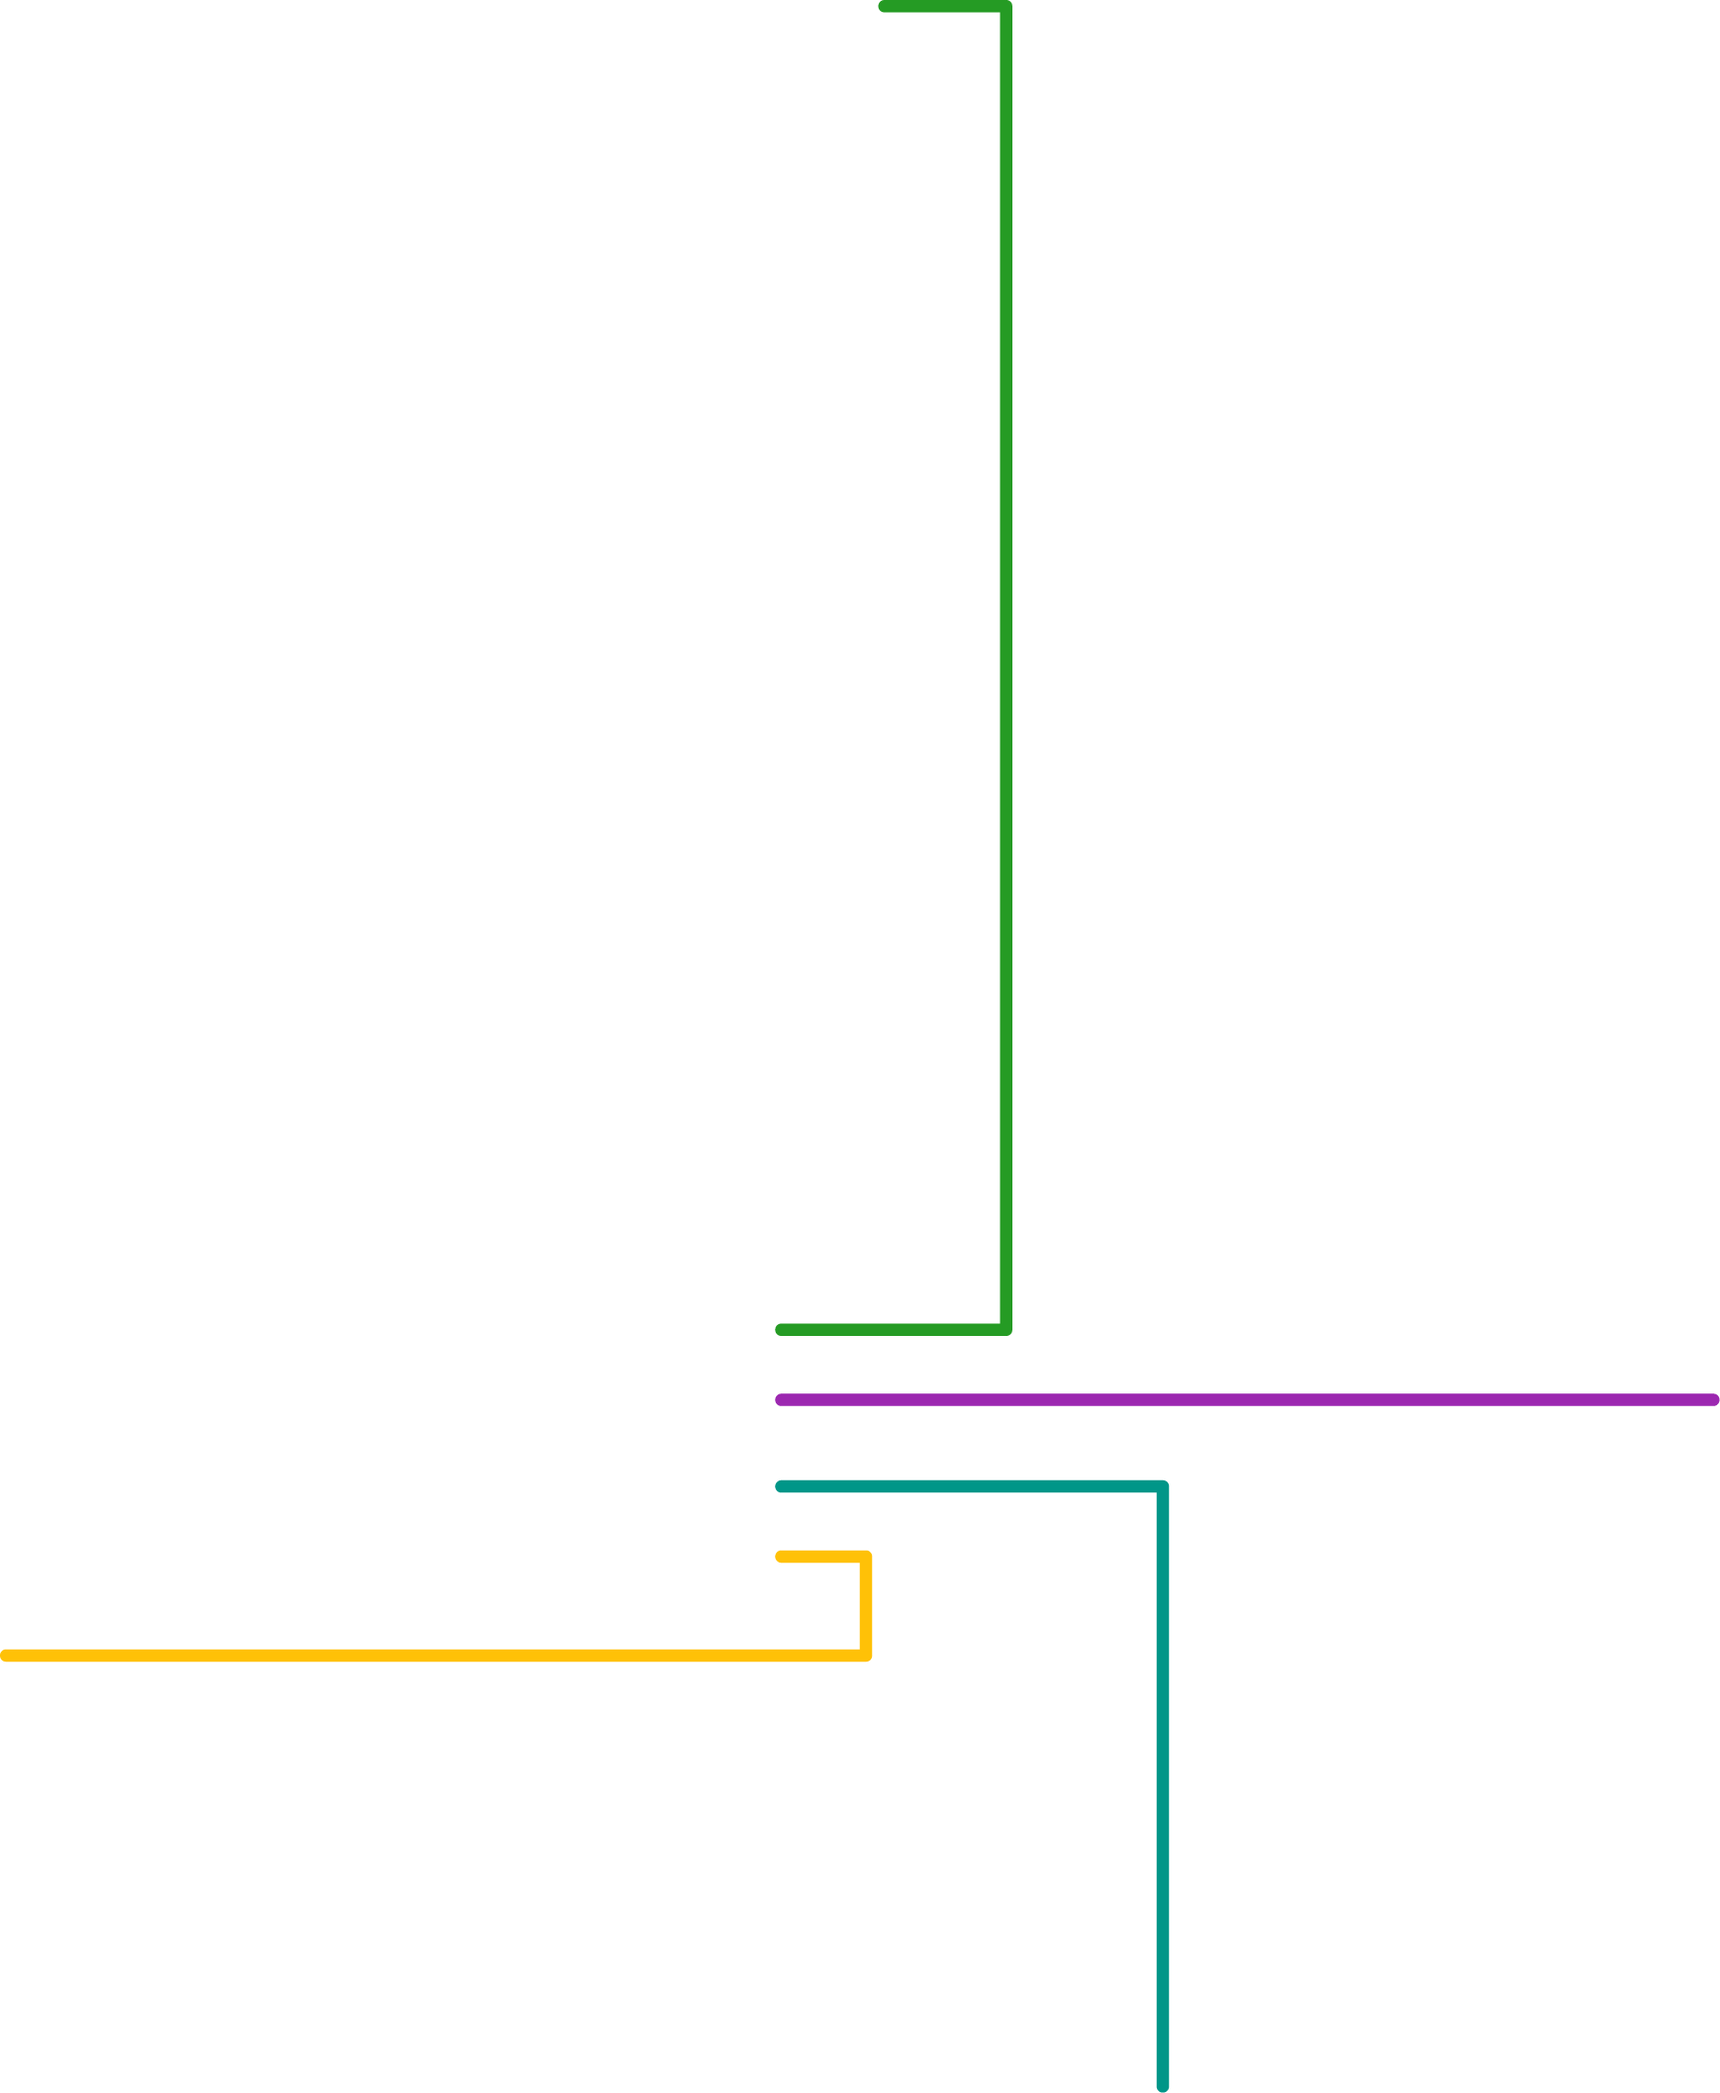
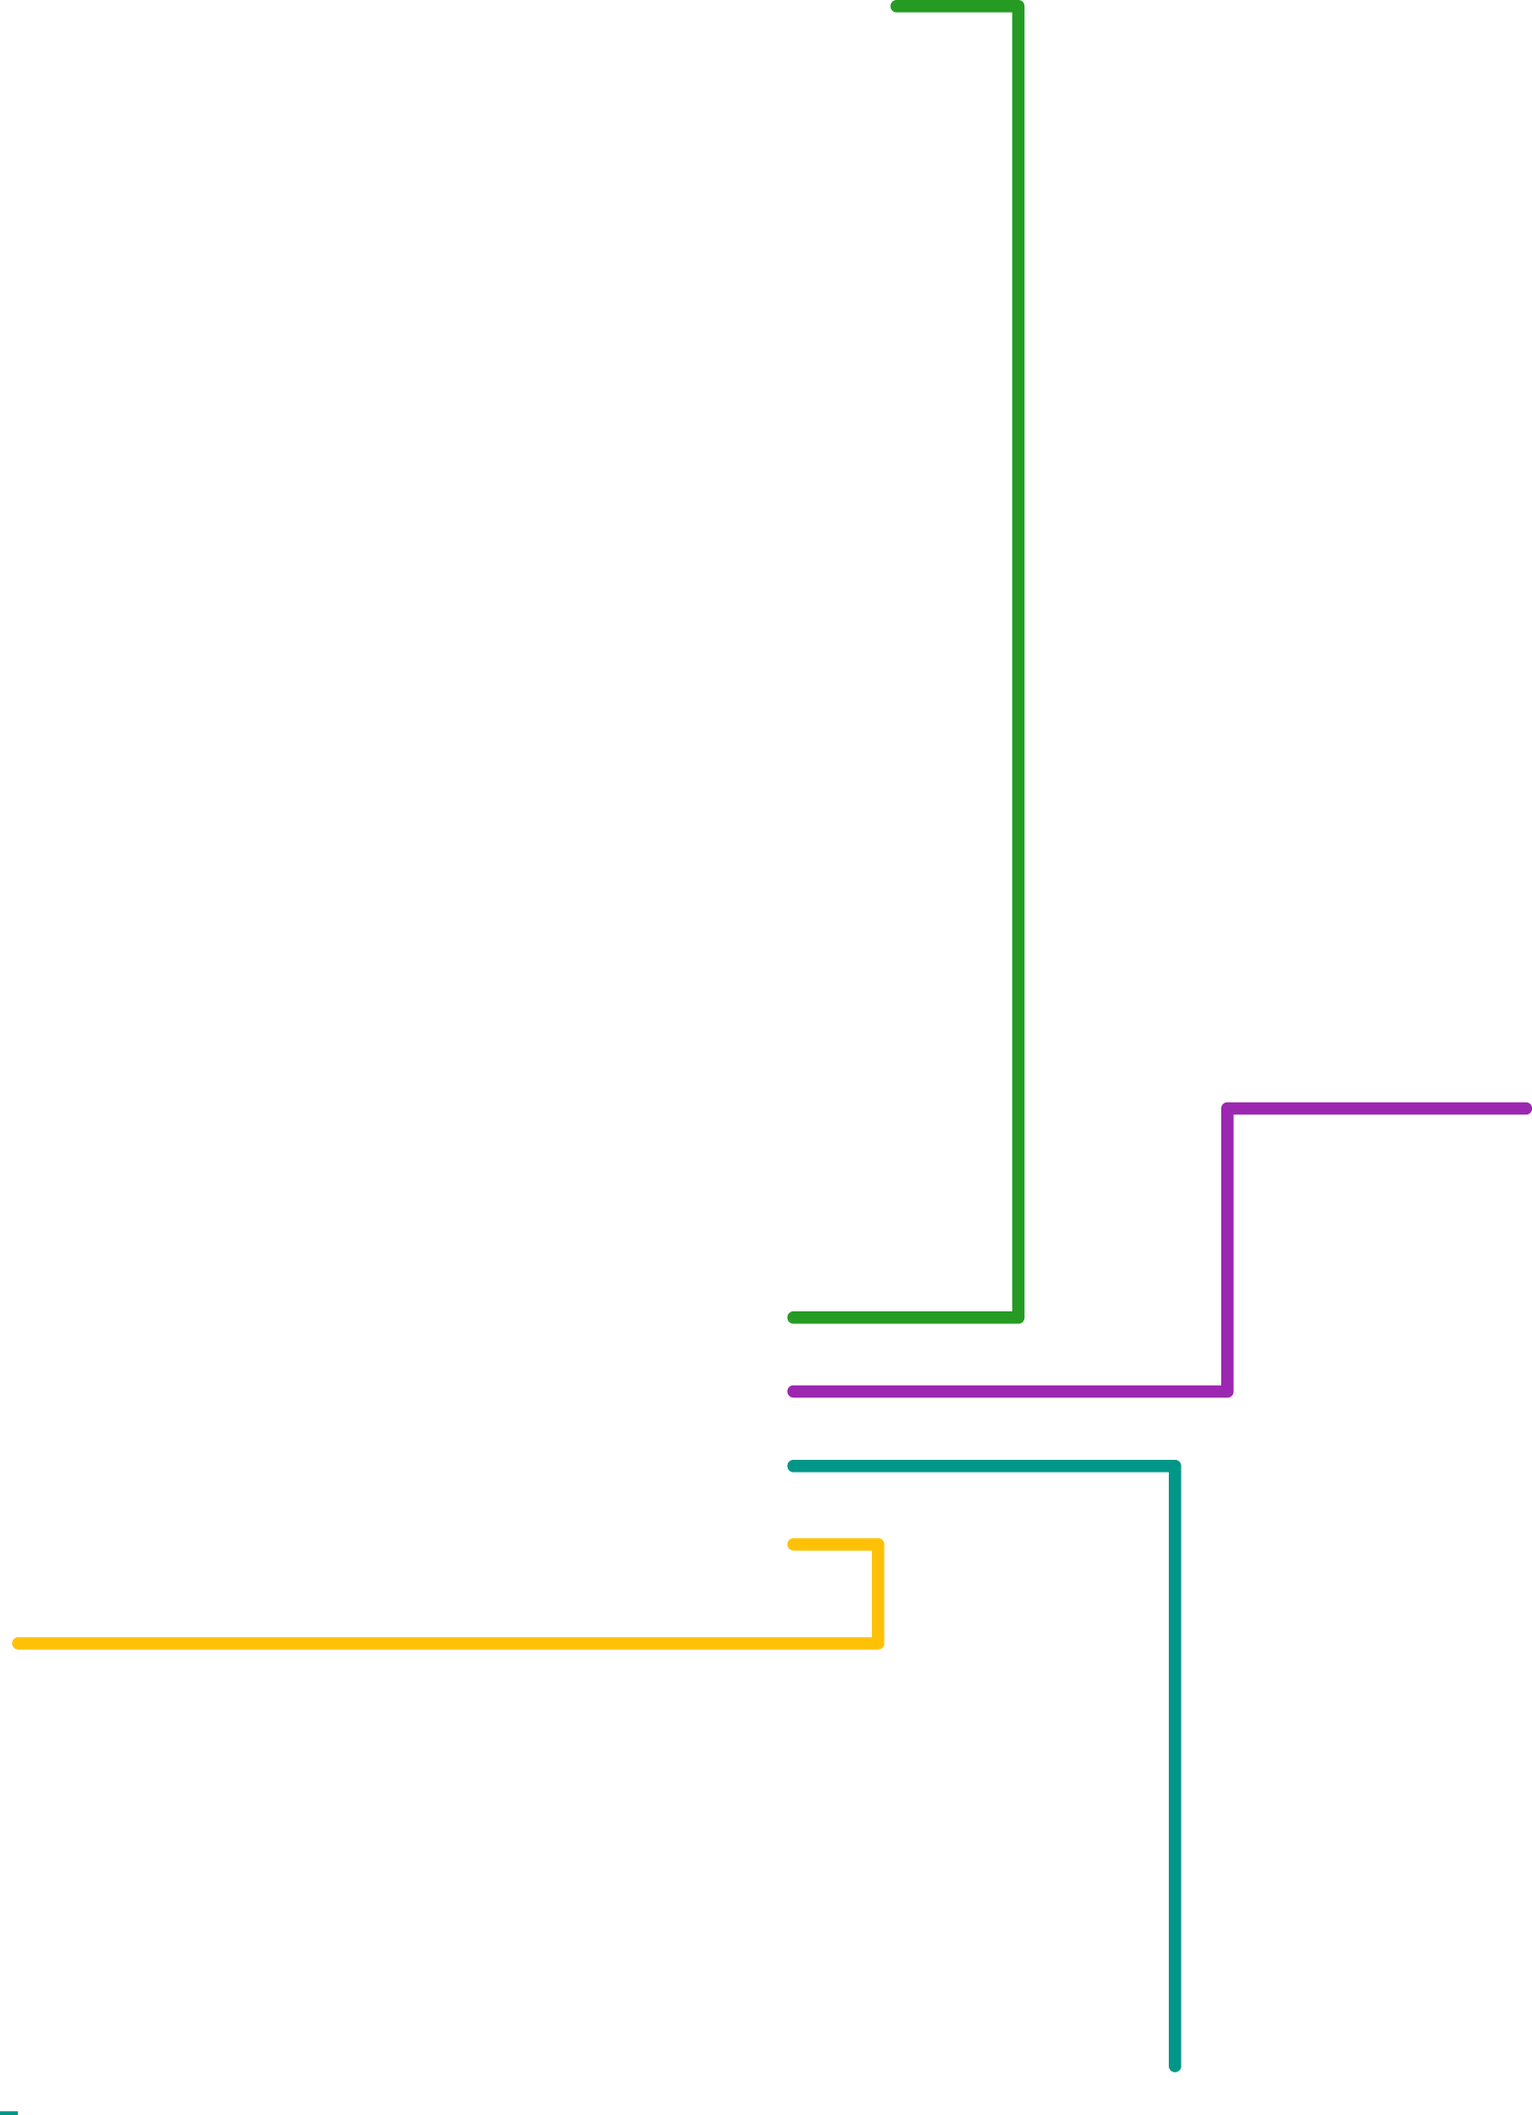
LoadGame done (as far as I can for now)

Changed region(s): [[0.0, 0.0, 1.0, 1.0], [0.8062, 0.4993, 1.0, 0.5305], [0.0, 0.9986, 0.031, 1.0]]

diff --git a/core/src/com/TeamHEC/LocomotionCommotion/Screens/Actors/ActorManager.java b/core/src/com/TeamHEC/LocomotionCommotion/Screens/Actors/ActorManager.java
@@ -29,6 +29,15 @@ public class ActorManager {
 	private static SM_newgame_Turn100Btn sm_newgame_turn100btn;
 	private static SM_newgame_Turn150Btn sm_newgame_turn150btn;
 	private static SM_newgame_GoBtn sm_newgame_gobtn;
+	
+	//Start Menu LoadGame Page
+	public static SM_loadgame_TitleText sm_loadgame_title;
+	public static SM_loadgame_Examples sm_loadgame_examples;
+	public static SM_loadgame_BackBtn sm_loadgame_backbtn;
+	
+	//Start Menu Preferences Page
+	public static SM_preferences_VertLine sm_preferences_vertline;
+	
 
 
 	public ActorManager(){		
@@ -86,11 +95,25 @@ public class ActorManager {
 
 		sm_newgame_gobtn = new SM_newgame_GoBtn();
 		actors.add(sm_newgame_gobtn);
-
+		
+		//Start Menu LoadGame page
+		sm_loadgame_title = new SM_loadgame_TitleText();
+		actors.add(sm_loadgame_title);
+		
+		sm_loadgame_examples = new SM_loadgame_Examples();
+		actors.add(sm_loadgame_examples);
+		
+		//Start Menu Preferences Page
+		sm_preferences_vertline = new SM_preferences_VertLine();
+		actors.add(sm_preferences_vertline);
+		
+		sm_loadgame_backbtn = new SM_loadgame_BackBtn();
+		actors.add(sm_loadgame_backbtn);
 		for (Actor a : actors){
 			a.setTouchable(Touchable.enabled);
 			stage.addActor(a);
 		}
+		
 
 	}
 

diff --git a/core/src/com/TeamHEC/LocomotionCommotion/Screens/Actors/SM_loadgame_BackBtn.java b/core/src/com/TeamHEC/LocomotionCommotion/Screens/Actors/SM_loadgame_BackBtn.java
@@ -8,17 +8,17 @@ import com.badlogic.gdx.scenes.scene2d.Actor;
 import com.badlogic.gdx.scenes.scene2d.InputEvent;
 import com.badlogic.gdx.scenes.scene2d.InputListener;
 
-public class SM_main_LoadGameBtn extends Actor {
+public class SM_loadgame_BackBtn extends Actor {
 
-	Texture texture = TextureManager.sm_main_loadgamebtn;
-	float actorX = SM_main_NewGameBtn.actorX ,actorY = SM_main_NewGameBtn.actorY-74;
+	Texture texture = TextureManager.sm_newgame_BackBtn; // Reuse Texture the BackButton from new game
+	float actorX = 1250+ 180 ,actorY = 675;
 	public boolean started = false;
 
-	public SM_main_LoadGameBtn(){
+	public SM_loadgame_BackBtn(){
 		setBounds(actorX,actorY,texture.getWidth(),texture.getHeight());
 		addListener(new InputListener(){
 			public boolean touchDown (InputEvent event, float x, float y, int pointer, int button) {
-				((SM_main_LoadGameBtn)event.getTarget()).started = true;
+				((SM_loadgame_BackBtn)event.getTarget()).started = true;
 				return true;
 			}
 		});
@@ -33,7 +33,7 @@ public class SM_main_LoadGameBtn extends Actor {
 	@Override
 	public void act(float delta){
 		if(started){
-			StartMenu.changeCam(1250, 0);
+			StartMenu.changeCam(-1250, 0);
 			started = false;
 		}
 	}

diff --git a/core/src/com/TeamHEC/LocomotionCommotion/Screens/Actors/SM_preferences_VertLine.java b/core/src/com/TeamHEC/LocomotionCommotion/Screens/Actors/SM_preferences_VertLine.java
@@ -8,17 +8,17 @@ import com.badlogic.gdx.scenes.scene2d.Actor;
 import com.badlogic.gdx.scenes.scene2d.InputEvent;
 import com.badlogic.gdx.scenes.scene2d.InputListener;
 
-public class SM_main_LoadGameBtn extends Actor {
+public class SM_preferences_VertLine extends Actor {
 
-	Texture texture = TextureManager.sm_main_loadgamebtn;
-	float actorX = SM_main_NewGameBtn.actorX ,actorY = SM_main_NewGameBtn.actorY-74;
+	Texture texture = TextureManager.sm_preferences_VertLine;
+	float actorX = 500 ,actorY= -950-100;
 	public boolean started = false;
 
-	public SM_main_LoadGameBtn(){
+	public SM_preferences_VertLine(){
 		setBounds(actorX,actorY,texture.getWidth(),texture.getHeight());
 		addListener(new InputListener(){
 			public boolean touchDown (InputEvent event, float x, float y, int pointer, int button) {
-				((SM_main_LoadGameBtn)event.getTarget()).started = true;
+				((SM_preferences_VertLine)event.getTarget()).started = true;
 				return true;
 			}
 		});
@@ -33,7 +33,7 @@ public class SM_main_LoadGameBtn extends Actor {
 	@Override
 	public void act(float delta){
 		if(started){
-			StartMenu.changeCam(1250, 0);
+			StartMenu.changeCam(0, 0);
 			started = false;
 		}
 	}

diff --git a/core/src/com/TeamHEC/LocomotionCommotion/Screens/Actors/SM_loadgame_Examples.java b/core/src/com/TeamHEC/LocomotionCommotion/Screens/Actors/SM_loadgame_Examples.java
@@ -8,17 +8,17 @@ import com.badlogic.gdx.scenes.scene2d.Actor;
 import com.badlogic.gdx.scenes.scene2d.InputEvent;
 import com.badlogic.gdx.scenes.scene2d.InputListener;
 
-public class SM_main_LoadGameBtn extends Actor {
+public class SM_loadgame_Examples extends Actor {
 
-	Texture texture = TextureManager.sm_main_loadgamebtn;
-	float actorX = SM_main_NewGameBtn.actorX ,actorY = SM_main_NewGameBtn.actorY-74;
+	Texture texture = TextureManager.sm_loadgame_Examples;
+	float actorX = 1250+ 350 ,actorY = 500;
 	public boolean started = false;
 
-	public SM_main_LoadGameBtn(){
+	public SM_loadgame_Examples(){
 		setBounds(actorX,actorY,texture.getWidth(),texture.getHeight());
 		addListener(new InputListener(){
 			public boolean touchDown (InputEvent event, float x, float y, int pointer, int button) {
-				((SM_main_LoadGameBtn)event.getTarget()).started = true;
+				((SM_loadgame_Examples)event.getTarget()).started = true;
 				return true;
 			}
 		});
@@ -33,7 +33,7 @@ public class SM_main_LoadGameBtn extends Actor {
 	@Override
 	public void act(float delta){
 		if(started){
-			StartMenu.changeCam(1250, 0);
+			StartMenu.changeCam(0, 0);
 			started = false;
 		}
 	}

diff --git a/core/src/com/TeamHEC/LocomotionCommotion/Screens/Actors/SM_loadgame_TitleText.java b/core/src/com/TeamHEC/LocomotionCommotion/Screens/Actors/SM_loadgame_TitleText.java
@@ -8,17 +8,17 @@ import com.badlogic.gdx.scenes.scene2d.Actor;
 import com.badlogic.gdx.scenes.scene2d.InputEvent;
 import com.badlogic.gdx.scenes.scene2d.InputListener;
 
-public class SM_main_LoadGameBtn extends Actor {
+public class SM_loadgame_TitleText extends Actor {
 
-	Texture texture = TextureManager.sm_main_loadgamebtn;
-	float actorX = SM_main_NewGameBtn.actorX ,actorY = SM_main_NewGameBtn.actorY-74;
+	Texture texture = TextureManager.sm_loadgame_Title;
+	float actorX = 1250+ 350 ,actorY = 665;
 	public boolean started = false;
 
-	public SM_main_LoadGameBtn(){
+	public SM_loadgame_TitleText(){
 		setBounds(actorX,actorY,texture.getWidth(),texture.getHeight());
 		addListener(new InputListener(){
 			public boolean touchDown (InputEvent event, float x, float y, int pointer, int button) {
-				((SM_main_LoadGameBtn)event.getTarget()).started = true;
+				((SM_loadgame_TitleText)event.getTarget()).started = true;
 				return true;
 			}
 		});
@@ -33,7 +33,7 @@ public class SM_main_LoadGameBtn extends Actor {
 	@Override
 	public void act(float delta){
 		if(started){
-			StartMenu.changeCam(1250, 0);
+			StartMenu.changeCam(0, 0);
 			started = false;
 		}
 	}

diff --git a/core/src/com/TeamHEC/LocomotionCommotion/Screens/TextureManager.java b/core/src/com/TeamHEC/LocomotionCommotion/Screens/TextureManager.java
@@ -22,5 +22,12 @@ public class TextureManager {
 	public static Texture sm_newgame_Turn50Btn = new Texture(Gdx.files.internal("sm_newgame/turn50.png"));
 	public static Texture sm_newgame_Turn100Btn = new Texture(Gdx.files.internal("sm_newgame/turn100.png"));
 	public static Texture sm_newgame_Turn150Btn = new Texture(Gdx.files.internal("sm_newgame/turn150.png"));
+	
+	//StartMenu LoadGame Page
+	public static Texture sm_loadgame_Title = new Texture(Gdx.files.internal("sm_loadgame/loadgametitle.png"));
+	public static Texture sm_loadgame_Examples = new Texture(Gdx.files.internal("sm_loadgame/loadgameexamples.png"));
+	
+	//StartMenu Preferences Page
+	public static Texture sm_preferences_VertLine = new Texture(Gdx.files.internal("sm_preferences/vertline.png"));
 
 }

diff --git a/core/src/com/TeamHEC/LocomotionCommotion/Screens/Actors/SM_main_HowToPlayBtn.java b/core/src/com/TeamHEC/LocomotionCommotion/Screens/Actors/SM_main_HowToPlayBtn.java
@@ -11,7 +11,7 @@ import com.badlogic.gdx.scenes.scene2d.InputListener;
 public class SM_main_HowToPlayBtn extends Actor {
 
 	Texture texture = TextureManager.sm_main_howtoplaybtn;
-	float actorX = SM_main_NewGameBtn.actorX-10 ,actorY = SM_main_NewGameBtn.actorY-220;
+	float actorX = SM_main_NewGameBtn.actorX-10 ,actorY = SM_main_NewGameBtn.actorY-225;
 	public boolean started = false;
 
 	public SM_main_HowToPlayBtn(){
@@ -33,7 +33,7 @@ public class SM_main_HowToPlayBtn extends Actor {
 	@Override
 	public void act(float delta){
 		if(started){
-			StartMenu.changeCam(-900, 0);
+			StartMenu.changeCam(-1290, 0);
 			started = false;
 		}
 	}

diff --git a/core/src/com/TeamHEC/LocomotionCommotion/Screens/Actors/SM_main_NewGameBtn.java b/core/src/com/TeamHEC/LocomotionCommotion/Screens/Actors/SM_main_NewGameBtn.java
@@ -11,7 +11,7 @@ import com.badlogic.gdx.scenes.scene2d.InputListener;
 public class SM_main_NewGameBtn extends Actor {
 	
 	Texture texture = TextureManager.sm_main_newgamebtn; //Image Used for the New Game button
-	public static float actorX = 400 ,actorY = 445; //Position of bottom left corner
+	public static float actorX = 400 ,actorY = 459; //Position of bottom left corner
 	public boolean started = false; //
 
 	public SM_main_NewGameBtn(){

diff --git a/core/src/com/TeamHEC/LocomotionCommotion/Screens/Actors/SM_main_LinesImg.java b/core/src/com/TeamHEC/LocomotionCommotion/Screens/Actors/SM_main_LinesImg.java
@@ -10,7 +10,7 @@ import com.badlogic.gdx.scenes.scene2d.InputListener;
 public class SM_main_LinesImg extends Actor {
 
 	Texture texture = TextureManager.sm_main_linesimg;
-	float actorX = -75 ,actorY = -300;
+	float actorX = -85 ,actorY = -320;
 	public boolean started = false;
 
 	public SM_main_LinesImg(){

diff --git a/core/src/com/TeamHEC/LocomotionCommotion/Screens/Actors/SM_main_PreferencesBtn.java b/core/src/com/TeamHEC/LocomotionCommotion/Screens/Actors/SM_main_PreferencesBtn.java
@@ -33,7 +33,7 @@ public class SM_main_PreferencesBtn extends Actor {
 	@Override
 	public void act(float delta){
 		if(started){
-			StartMenu.changeCam(0, -1050);
+			StartMenu.changeCam(0, -950);
 			started = false;
 		}
 	}
